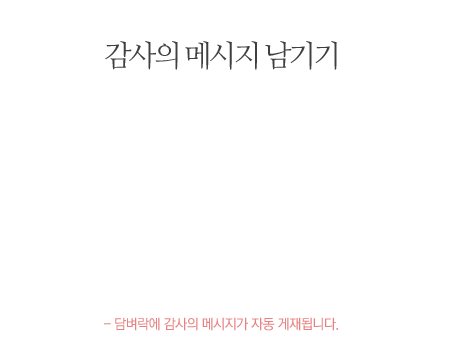
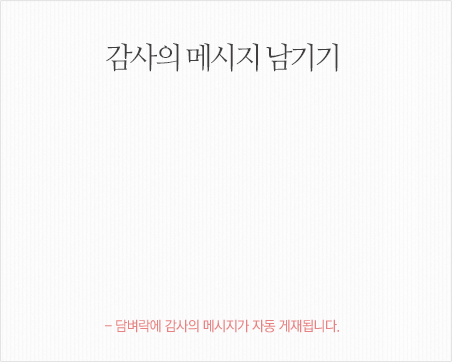
fix images at pc page

diff --git a/app/assets/stylesheets/pc/style.css.scss b/app/assets/stylesheets/pc/style.css.scss
@@ -34,7 +34,7 @@ img{
   margin-left: 20px;
 }
 
-.header_button{
+.header_event_name{
   float: right;
   position: relative;
   top: 50%;
@@ -52,25 +52,39 @@ img{
 }
 
 .share{
-  margin: 20px auto;
+  margin: 50px auto;
 }
 
 .share_button{
-  margin-left: 30px;
+  margin-left: 10px;
 }
 
 .letter_container{
   position: relative;
+  width: 660px;
+  height: 350px;
   left: 10px;
   margin: 15px 0px;
+}
+
+.letter_back_image{
+  position: absolute;
+  left: 0px;
+}
+
+.letter_front_image{
+  position: absolute;
+  left: 102px;
+  top: 136px;
+  z-index: 1;
 }
 
 .letter_contents{
   position: absolute;
   width: 386px;
   height: 210px;
-  top: 49px;
-  left: 118px;
+  top: 20px;
+  left: 110px;
 }
 
 .under_letter{
@@ -207,7 +221,7 @@ img{
   margin-top: 100px;
   width: 350px;
   height: 120px;
-  border: 0px transparent;
+  border: 1px solid #dddddd;
   resize: none;
 }
 
@@ -223,6 +237,8 @@ img{
   height: 260px;
   background-color: white;
   text-align: center;
+  background-image: asset-url("pc/popup/popup_background.png");
+  background-repeat: repeat-y;
 }
 
 .close_button{
@@ -246,7 +262,9 @@ img{
   width: 450px;
   height: 550px;
   background-color: white;
-  text-align: center;  
+  text-align: center;
+  background-image: asset-url("pc/popup/popup_background.png");
+  background-repeat: repeat-y;
 }
 
 .present_title{
@@ -297,6 +315,8 @@ img{
   width: 450px;
   height: 400px;
   background-color: white;
+  background-image: asset-url("pc/popup/popup_background.png");
+  background-repeat: repeat-y;
 }
 .personal_policy_contents{
   width: 410px;
